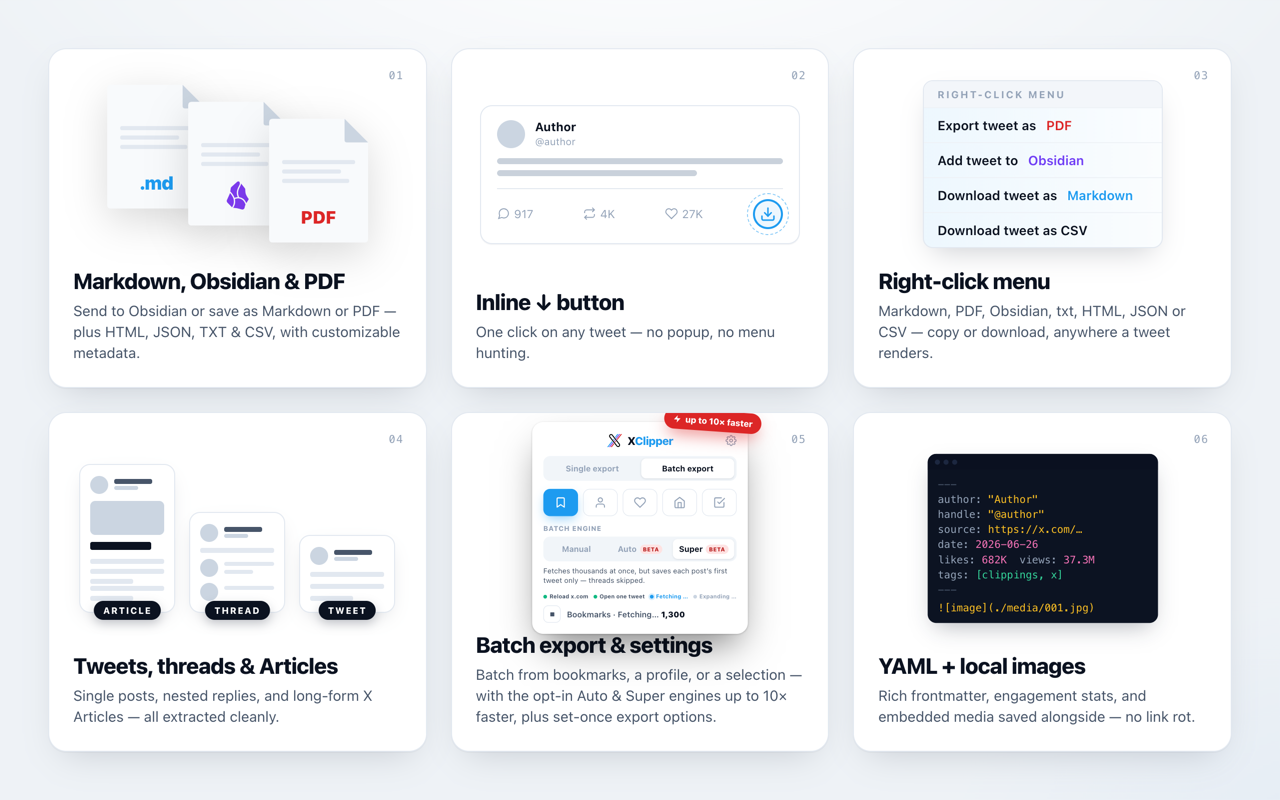
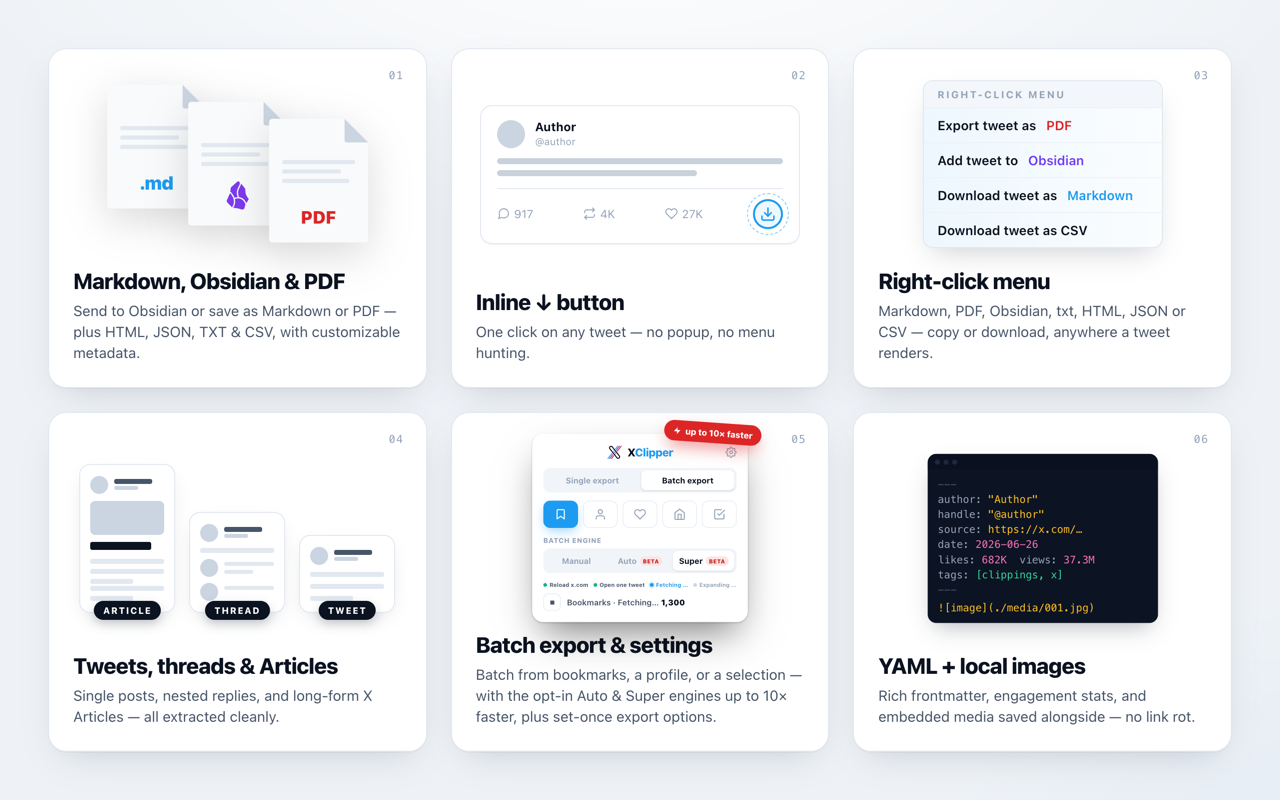
fix(mockups): drop the illegible engine caption from overview card 05

Changed region(s): [[0.4062, 0.5, 0.5938, 0.8125]]

diff --git a/store/mockups/01-product-overview.html b/store/mockups/01-product-overview.html
@@ -218,7 +218,6 @@
   .mqp-mode .opt{ flex: 1; display: flex; align-items: center; justify-content: center; gap: 5px; font-size: 13px; font-weight: 700; color: #94a3b8; padding: 8px 0; border-radius: 8px; }
   .mqp-mode .opt.active{ background: #ffffff; color: #0b1220; box-shadow: 0 1px 3px rgba(15,23,42,.12); }
   .mqp-mode .beta{ font-size: 9px; font-weight: 800; color: #b91c1c; background: #fee2e2; border-radius: 999px; padding: 2px 5px; letter-spacing: .04em; text-transform: uppercase; }
-  .mqp-mode-caption{ font-size: 11.5px; color: #475569; line-height: 1.35; }
 
   .mqp-prog{ display: flex; flex-direction: column; gap: 9px; }
   .mqp-prow{ display: flex; align-items: center; gap: 10px; }
@@ -513,7 +512,6 @@
                   <div class="opt">Auto<span class="beta">Beta</span></div>
                   <div class="opt active">Super<span class="beta">Beta</span></div>
                 </div>
-                <div class="mqp-mode-caption">Fetches thousands at once, but saves each post&rsquo;s first tweet only &mdash; threads skipped.</div>
               </div>
 
               <!-- Super running: Stop but no Pause, and no determinate bar -
